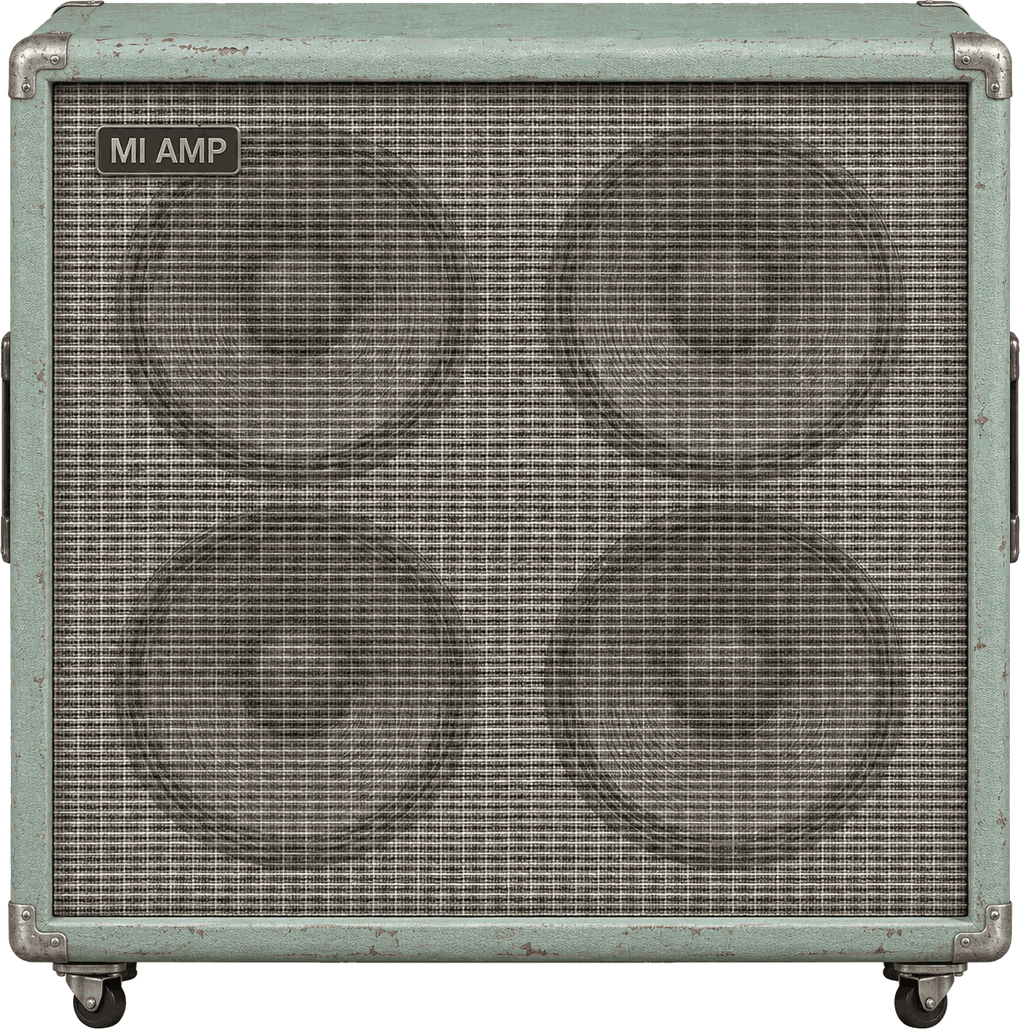
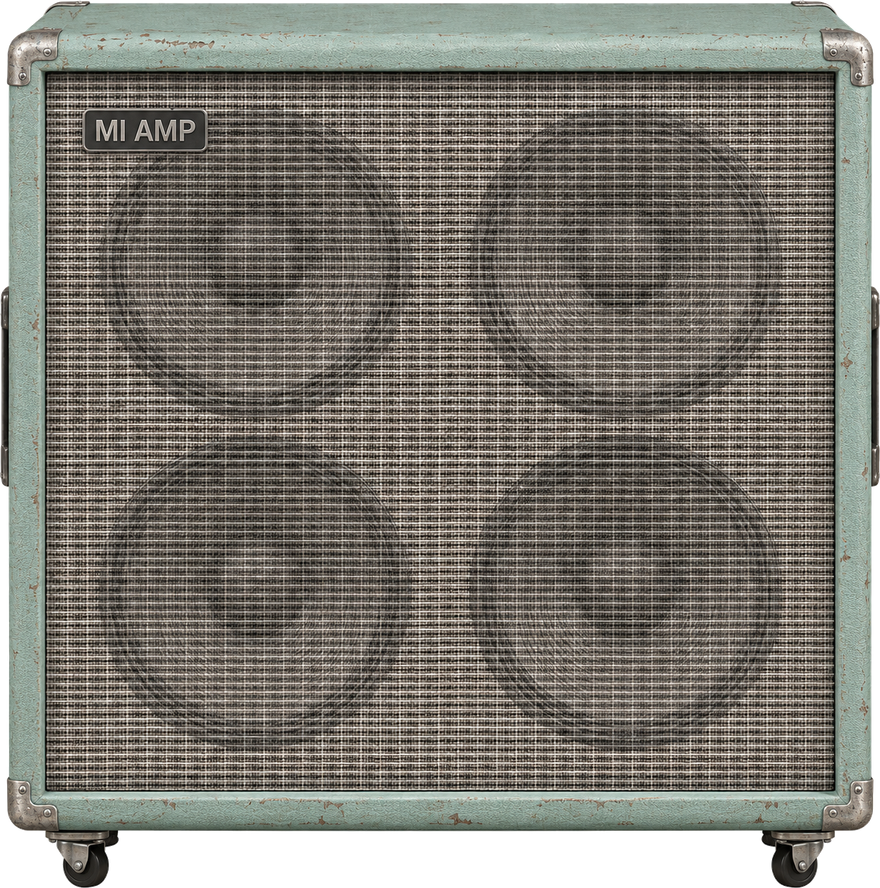
fix(v26b): 32-bit RGBA cabs (8x10 MI Classic & 4x12 MI Zenbox) for Windows JUCE

diff --git a/PROJECT_HANDOFF.md b/PROJECT_HANDOFF.md
@@ -52,7 +52,7 @@ Documento de referencia técnica integral para retomar el desarrollo de **MI AMP
 - `4`: `2x12 CLASS-A` (`cab_2x12_classa.png`)
 - `5`: `4x12 TANGERINE` (`cab_4x12_tangerine.png`)
 - `6`: `2x12 BLACKFACE` (`cab_2x12_twin.png`)
-- `7`: **`4x12 MI ZENBOX`** (`cab_4x12_zenbox.png`, **1020×1029 px**, Mint Tolex original, default)
+- `7`: **`4x12 MI ZENBOX`** (`cab_4x12_zenbox.png`, **880×888 px**, 32-bit RGBA, Mint Tolex original, default)
 - `8`: `CUSTOM WAV IR` (usa `cab_4x12_zenbox.png`, carga `.wav` externo)
 - `9`: `CAB OFF` (`isOff = true`, muestra imagen atenuada de la caja original sin grill/mics)
 
@@ -66,7 +66,7 @@ Documento de referencia técnica integral para retomar el desarrollo de **MI AMP
 - `3`: `6x10 HEAVY` (`bass_cab_6x10_heavy.png`)
 - `4`: `8x10 CLASSIC` (`bass_cab_8x10_classic.png`)
 - `5`: `8x10 TANGERINE` (`bass_cab_8x10_tangerine.png`)
-- `6`: **`8x10 MI CLASSIC`** (`bass_cab_8x10_mint.png`, **805×1909 px**, Mint Tolex original, default)
+- `6`: **`8x10 MI CLASSIC`** (`bass_cab_8x10_mint.png`, **600×1423 px**, 32-bit RGBA, Mint Tolex original, default)
 - `7`: `CUSTOM WAV IR` (usa `bass_cab_8x10_mint.png`, carga `.wav` externo)
 - `8`: `CAB OFF` (`isOff = true`, salida DI directa)
 
@@ -81,7 +81,7 @@ Revisar siempre estos archivos antes de modificar gráficos o layouts:
 - **Resolución y formato de assets en `Resources/rig/`**:
   - Todos los cabezales son `1200 px` de ancho RGBA sin fondo ni patas sobrantes.
   - Si un cabezal tipo rack (`PRO-450`, `RB-800`, `DB-750`) tiene esquineros cromados, dejar `≥ 5 px` de aire transparente en los bordes laterales y asegurar que el riel horizontal inferior sea continuo por encima de las patas de goma.
-  - Las cajas originales (`4x12 MI ZENBOX` y `8x10 MI CLASSIC`) deben mantenerse a **≥ `800 px` de ancho real** (`1020×1029` y `805×1909`) para que `closeUpView` (`~900 px` de ancho en pantalla) se vea 100% nítido sin pixelación.
+  - Las cajas originales (`4x12 MI ZENBOX` `880×888` y `8x10 MI CLASSIC` `600×1423`) deben guardarse siempre en **PNG 32-bit RGBA puro (`color_type = 6`, sin paleta `PLTE`/`tRNS`)** y mantenerse bajo `1536 px` de altura (evitando el bug de silueta negra en Windows JUCE 8 `libpng` + Direct2D) y por encima de `580 px` de ancho para que `closeUpView` se vea 100% nítido y en color real de 24-bit sin cuantización.
   - Todo nuevo recurso agregado en `Resources/` debe declararse en `CMakeLists.txt` (`juce_add_binary_data`) para compilar en `BinaryData`.
 
 ---
@@ -93,7 +93,7 @@ Revisar siempre estos archivos antes de modificar gráficos o layouts:
 
 ---
 
-## 6. Estado Alcanzado en esta Entrega (`v26`)
+## 6. Estado Alcanzado en esta Entrega (`v26b`)
 - Fixes #1–7 de UI completos (`UI_RULES.md`), limpieza de artefactos en pies de los 18 cabezales, reparación fotorealista completa de los esquineros y riel inferior en `bass_head_svt3pro.png` (`PRO-450`) y `bass_head_gk800.png` (`RB-800`).
-- Cajas originales fotorealistas HD (`cab_4x12_zenbox.png` `1020×1029` y `bass_cab_8x10_mint.png` `805×1909`) sincronizadas en las 10 cajas de guitarra y 9 de bajo junto a `CUSTOM WAV IR` y `CAB OFF`.
+- Cajas originales fotorealistas HD en **32-bit RGBA puro (`ct=6`)** (`cab_4x12_zenbox.png` `880×888` y `bass_cab_8x10_mint.png` `600×1423`) — corrigiendo el fallo de silueta negra en Windows JUCE 8 — sincronizadas en las 10 cajas de guitarra y 9 de bajo junto a `CUSTOM WAV IR` y `CAB OFF`.
 - Documentación completa de creación de fondos (`FONDO_GUIA.md` + `scripts/crear_fondos_mi_amp.py`) y guía técnica (`PROJECT_HANDOFF.md`).

diff --git a/UI_RULES.md b/UI_RULES.md
@@ -47,5 +47,6 @@ Estas reglas son obligatorias para cualquier cambio de interfaz, código C++ (`S
 
 ## 6. Assets RGBA y Autenticidad Visual
 - **Bordes limpios (`Resources/rig/`):** todos los PNG de cabezales, cajas, micrófonos, perillas y switches deben mantener alfa descontaminado, sin halos ni artefactos en los bordes del lienzo.
+- **Formato PNG obligatorio (`RGBA 32-bit` / `color_type = 6`):** **NUNCA** guardar assets críticos nuevos o regenerados como PNG8 indexado con paleta + `tRNS` (`color_type = 3`, por ej. cuantización `FASTOCTREE`) ni superar `1536 px` en el lado más largo en imágenes con alfa: en Windows con JUCE 8 (`libpng` + Direct2D), los PNG8 indexados con ciertos bloques `PLTE`/`tRNS` o alturas elevadas pueden decodificarse/renderizarse como una **silueta negra sólida (`#000000`)** manteniendo intacta la máscara alfa. Guardar siempre como **PNG 32-bit RGBA puro (`color_type = 6`, sin `PLTE` ni `tRNS`)**, con RGB puesto a `0` en píxeles donde `alpha == 0`.
 - **Controles completos:** cada cabezal debe mostrar todas sus perillas, switches y faders reales alineados según `Source/AmpCatalogSpecs.h`.
 - **Previews 100% reales:** cualquier captura o preview visual debe reflejar exactamente las posiciones y proporciones reales del plugin (no reubicar paneles en lugares donde no existen).
